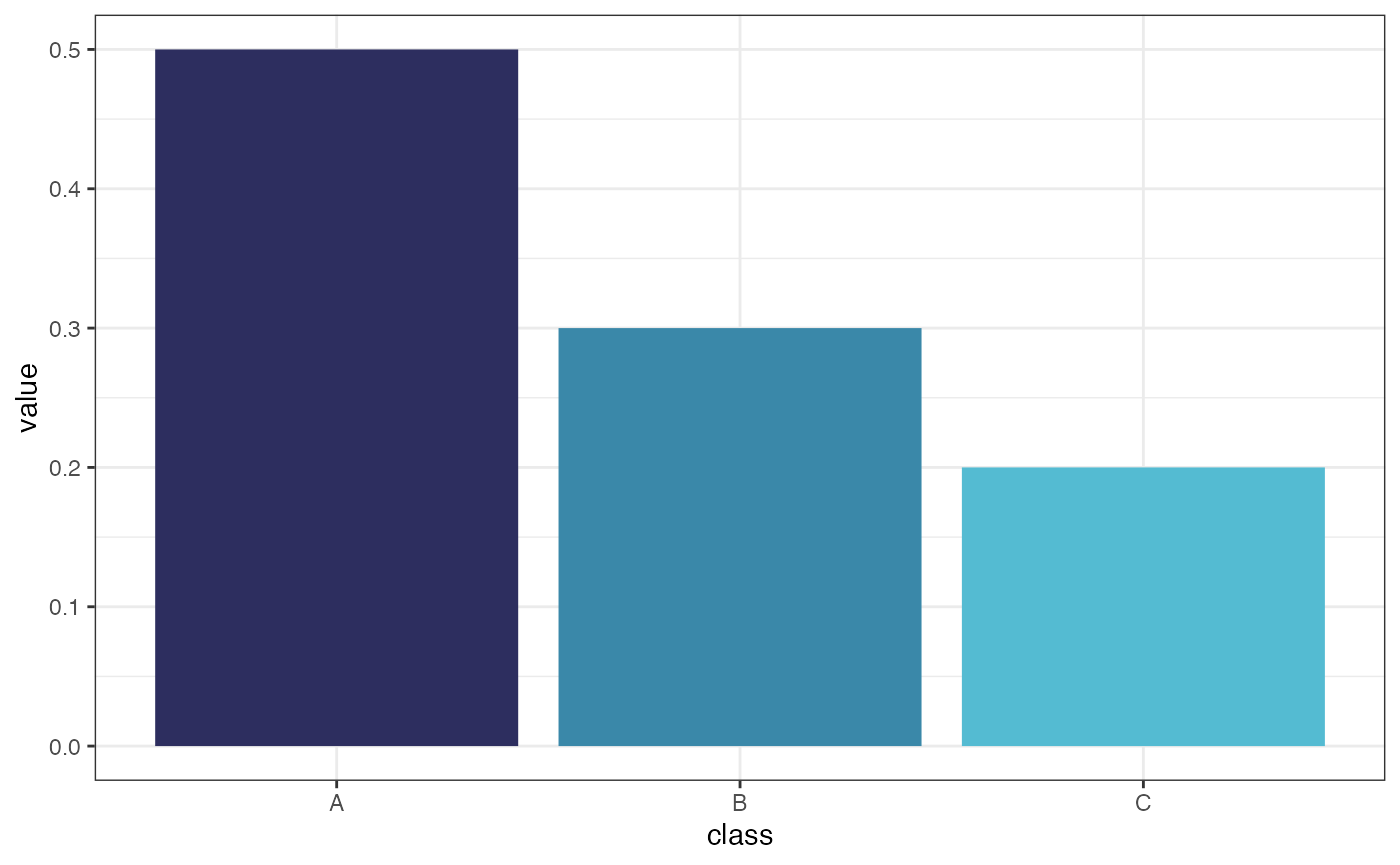
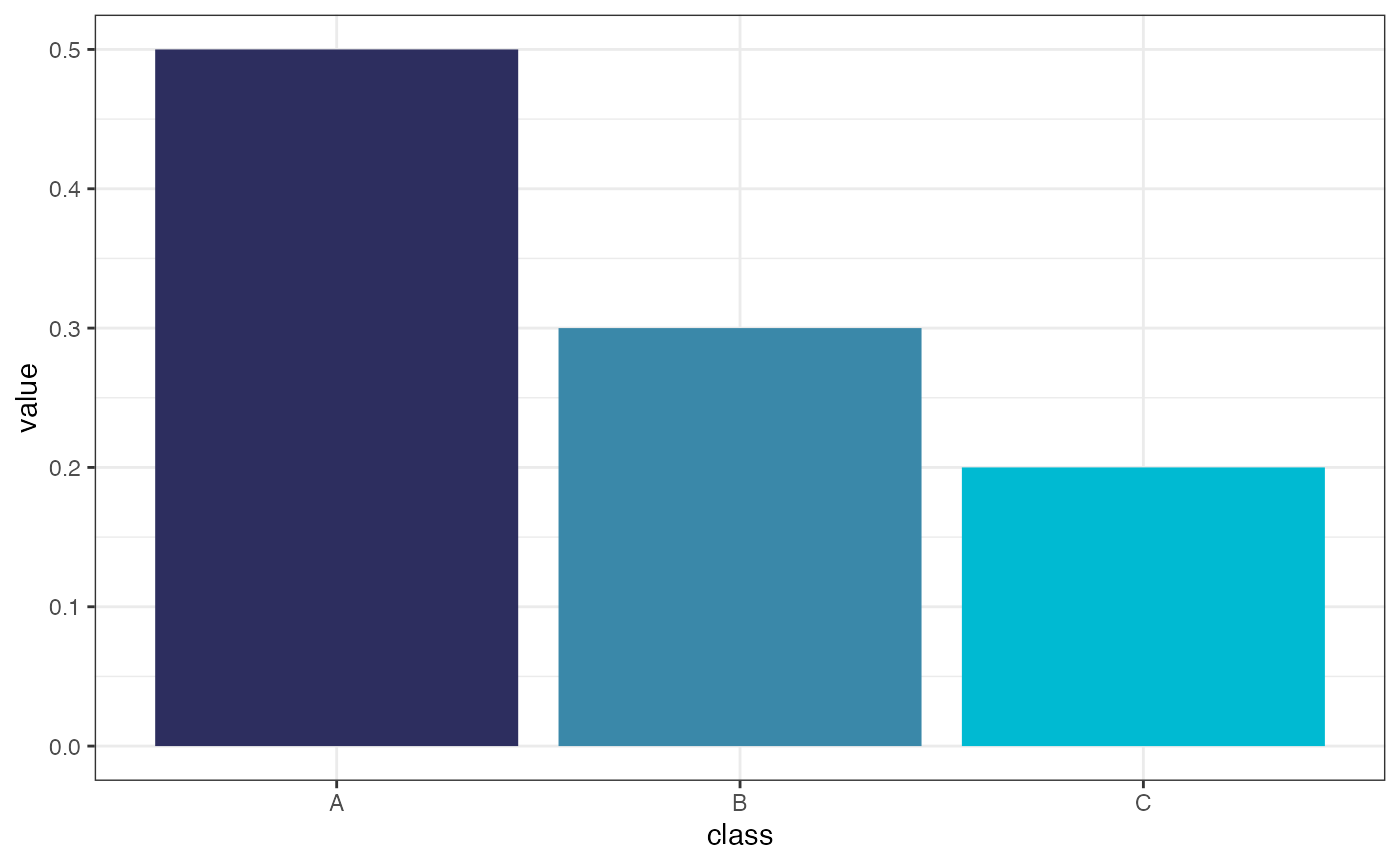
Updating pkgdown

Changed region(s): [[0.6757, 0.5306, 0.9521, 0.874]]

diff --git a/docs/index.html b/docs/index.html
@@ -89,7 +89,7 @@
 <p>These are then grouped into palettes that are also stored in functions:</p>
 <div class="sourceCode" id="cb3"><pre class="downlit sourceCode r">
 <code class="sourceCode R"><span><span class="fu"><a href="reference/hgu_palette.html">hgu_palette</a></span><span class="op">(</span><span class="op">)</span></span>
-<span><span class="co">#&gt; [1] "#2D2E5F" "#3A88A9" "#54BBD2"</span></span></code></pre></div>
+<span><span class="co">#&gt; [1] "#2D2E5F" "#3A88A9" "#00BAD2"</span></span></code></pre></div>
 <p>For users’ convenience, various functions have been written that set these colour values</p>
 <div class="sourceCode" id="cb4"><pre class="downlit sourceCode r">
 <code class="sourceCode R"><span><span class="va">plot_data</span> <span class="op">&lt;-</span> <span class="fu">tibble</span><span class="op">(</span></span>
@@ -106,16 +106,16 @@
 <p>A basic plot of this data would look like this</p>
 <div class="sourceCode" id="cb5"><pre class="downlit sourceCode r">
 <code class="sourceCode R"><span><span class="va">plot_data</span> <span class="op">%&gt;%</span></span>
-<span>  <span class="fu"><a href="https://ggplot2.tidyverse.org/reference/ggplot.html" class="external-link">ggplot</a></span><span class="op">(</span><span class="fu"><a href="https://ggplot2.tidyverse.org/reference/aes.html" class="external-link">aes</a></span><span class="op">(</span>x <span class="op">=</span> <span class="va">class</span>, y <span class="op">=</span> <span class="va">value</span>, fill <span class="op">=</span> <span class="va">class</span><span class="op">)</span><span class="op">)</span> <span class="op">+</span></span>
-<span>  <span class="fu"><a href="https://ggplot2.tidyverse.org/reference/geom_bar.html" class="external-link">geom_col</a></span><span class="op">(</span><span class="op">)</span> <span class="op">+</span></span>
-<span>  <span class="fu"><a href="https://ggplot2.tidyverse.org/reference/ggtheme.html" class="external-link">theme_classic</a></span><span class="op">(</span><span class="op">)</span></span></code></pre></div>
+<span>  <span class="fu">ggplot</span><span class="op">(</span><span class="fu">aes</span><span class="op">(</span>x <span class="op">=</span> <span class="va">class</span>, y <span class="op">=</span> <span class="va">value</span>, fill <span class="op">=</span> <span class="va">class</span><span class="op">)</span><span class="op">)</span> <span class="op">+</span></span>
+<span>  <span class="fu">geom_col</span><span class="op">(</span><span class="op">)</span> <span class="op">+</span></span>
+<span>  <span class="fu">theme_classic</span><span class="op">(</span><span class="op">)</span></span></code></pre></div>
 <p><img src="reference/figures/README-unnamed-chunk-5-1.png" width="100%"></p>
 <p>A layer can be added to change the fill of the boxes to match that of the MRC HGU powerpoint theme</p>
 <div class="sourceCode" id="cb6"><pre class="downlit sourceCode r">
 <code class="sourceCode R"><span><span class="va">plot_data</span> <span class="op">%&gt;%</span></span>
-<span>  <span class="fu"><a href="https://ggplot2.tidyverse.org/reference/ggplot.html" class="external-link">ggplot</a></span><span class="op">(</span><span class="fu"><a href="https://ggplot2.tidyverse.org/reference/aes.html" class="external-link">aes</a></span><span class="op">(</span>x <span class="op">=</span> <span class="va">class</span>, y <span class="op">=</span> <span class="va">value</span>, fill <span class="op">=</span> <span class="va">class</span><span class="op">)</span><span class="op">)</span> <span class="op">+</span></span>
-<span>  <span class="fu"><a href="https://ggplot2.tidyverse.org/reference/geom_bar.html" class="external-link">geom_col</a></span><span class="op">(</span><span class="op">)</span> <span class="op">+</span></span>
-<span>  <span class="fu"><a href="https://ggplot2.tidyverse.org/reference/ggtheme.html" class="external-link">theme_classic</a></span><span class="op">(</span><span class="op">)</span> <span class="op">+</span></span>
+<span>  <span class="fu">ggplot</span><span class="op">(</span><span class="fu">aes</span><span class="op">(</span>x <span class="op">=</span> <span class="va">class</span>, y <span class="op">=</span> <span class="va">value</span>, fill <span class="op">=</span> <span class="va">class</span><span class="op">)</span><span class="op">)</span> <span class="op">+</span></span>
+<span>  <span class="fu">geom_col</span><span class="op">(</span><span class="op">)</span> <span class="op">+</span></span>
+<span>  <span class="fu">theme_classic</span><span class="op">(</span><span class="op">)</span> <span class="op">+</span></span>
 <span>  <span class="fu"><a href="reference/scale_fill_hgu3.html">scale_fill_hgu3</a></span><span class="op">(</span><span class="op">)</span></span></code></pre></div>
 <p><img src="reference/figures/README-unnamed-chunk-6-1.png" width="100%"></p>
 </div>
@@ -199,6 +199,7 @@
 <h2 data-toc-skip>Dev status</h2>
 <ul class="list-unstyled">
 <li><a href="https://github.com/hwarden162/HGUTheme/actions/workflows/pages/pages-build-deployment" class="external-link"><img src="https://github.com/hwarden162/HGUTheme/actions/workflows/pages/pages-build-deployment/badge.svg" alt="pages-build-deployment"></a></li>
+<li><a href="https://app.codecov.io/gh/hwarden162/HGUTheme?branch=main" class="external-link"><img src="https://codecov.io/gh/hwarden162/HGUTheme/branch/main/graph/badge.svg" alt="Codecov test coverage"></a></li>
 </ul>
 </div>
 

diff --git a/docs/articles/HGUTheme.html b/docs/articles/HGUTheme.html
@@ -154,7 +154,7 @@ for text box text and shapes). Here are these three colours in hex:</p>
 <span><span class="co">#&gt; [1] "#3A88A9"</span></span>
 <span><span class="co"># MRC HGU Light Blue</span></span>
 <span><span class="fu"><a href="../reference/hgu_light.html">hgu_light</a></span><span class="op">(</span><span class="op">)</span></span>
-<span><span class="co">#&gt; [1] "#54BBD2"</span></span></code></pre></div>
+<span><span class="co">#&gt; [1] "#00BAD2"</span></span></code></pre></div>
 <p>These can be useful for quickly colouring <code>ggplot2</code> plots,
 lets make a quick example. A fairly common plot you might make as a
 scientist is a scatter plot with a trend and then putting a linear
@@ -166,18 +166,18 @@ regression line on top. First we can make some fake data</p>
 <span><span class="op">)</span></span>
 <span><span class="va">plot_data</span></span>
 <span><span class="co">#&gt; <span style="color: #949494;"># A tibble: 100 × 2</span></span></span>
-<span><span class="co">#&gt;         x       y</span></span>
-<span><span class="co">#&gt;     <span style="color: #949494; font-style: italic;">&lt;dbl&gt;</span>   <span style="color: #949494; font-style: italic;">&lt;dbl&gt;</span></span></span>
-<span><span class="co">#&gt; <span style="color: #BCBCBC;"> 1</span> 0.023<span style="text-decoration: underline;">7</span>  0.031<span style="text-decoration: underline;">8</span></span></span>
-<span><span class="co">#&gt; <span style="color: #BCBCBC;"> 2</span> 0.294   0.325 </span></span>
-<span><span class="co">#&gt; <span style="color: #BCBCBC;"> 3</span> 0.744   0.538 </span></span>
-<span><span class="co">#&gt; <span style="color: #BCBCBC;"> 4</span> 0.945   1.06  </span></span>
-<span><span class="co">#&gt; <span style="color: #BCBCBC;"> 5</span> 0.078<span style="text-decoration: underline;">1</span> -<span style="color: #BB0000;">0.089</span><span style="color: #BB0000; text-decoration: underline;">5</span></span></span>
-<span><span class="co">#&gt; <span style="color: #BCBCBC;"> 6</span> 0.825   0.784 </span></span>
-<span><span class="co">#&gt; <span style="color: #BCBCBC;"> 7</span> 0.896   0.753 </span></span>
-<span><span class="co">#&gt; <span style="color: #BCBCBC;"> 8</span> 0.137   0.585 </span></span>
-<span><span class="co">#&gt; <span style="color: #BCBCBC;"> 9</span> 0.014<span style="text-decoration: underline;">7</span>  0.017<span style="text-decoration: underline;">7</span></span></span>
-<span><span class="co">#&gt; <span style="color: #BCBCBC;">10</span> 0.928   1.15  </span></span>
+<span><span class="co">#&gt;        x      y</span></span>
+<span><span class="co">#&gt;    <span style="color: #949494; font-style: italic;">&lt;dbl&gt;</span>  <span style="color: #949494; font-style: italic;">&lt;dbl&gt;</span></span></span>
+<span><span class="co">#&gt; <span style="color: #BCBCBC;"> 1</span> 0.714 0.585 </span></span>
+<span><span class="co">#&gt; <span style="color: #BCBCBC;"> 2</span> 0.453 0.430 </span></span>
+<span><span class="co">#&gt; <span style="color: #BCBCBC;"> 3</span> 0.410 0.512 </span></span>
+<span><span class="co">#&gt; <span style="color: #BCBCBC;"> 4</span> 0.131 0.098<span style="text-decoration: underline;">4</span></span></span>
+<span><span class="co">#&gt; <span style="color: #BCBCBC;"> 5</span> 0.590 0.433 </span></span>
+<span><span class="co">#&gt; <span style="color: #BCBCBC;"> 6</span> 0.469 0.717 </span></span>
+<span><span class="co">#&gt; <span style="color: #BCBCBC;"> 7</span> 0.975 0.801 </span></span>
+<span><span class="co">#&gt; <span style="color: #BCBCBC;"> 8</span> 0.468 0.620 </span></span>
+<span><span class="co">#&gt; <span style="color: #BCBCBC;"> 9</span> 0.893 0.779 </span></span>
+<span><span class="co">#&gt; <span style="color: #BCBCBC;">10</span> 0.314 0.447 </span></span>
 <span><span class="co">#&gt; <span style="color: #949494;"># … with 90 more rows</span></span></span></code></pre></div>
 <p>Then we can make a simple plot that you might make for a
 presentation:</p>

diff --git a/docs/reference/hgu_palette.html b/docs/reference/hgu_palette.html
@@ -68,13 +68,11 @@
     <h2 id="ref-examples">Examples<a class="anchor" aria-label="anchor" href="#ref-examples"></a></h2>
     <div class="sourceCode"><pre class="sourceCode r"><code><span class="r-in"><span><span class="va">colour_palette</span> <span class="op">&lt;-</span> <span class="va">hgu_palette</span></span></span>
 <span class="r-in"><span><span class="va">colour_palette</span></span></span>
-<span class="r-out co"><span class="r-pr">#&gt;</span> function() {</span>
-<span class="r-out co"><span class="r-pr">#&gt;</span>   c(</span>
-<span class="r-out co"><span class="r-pr">#&gt;</span>     hgu_dark(),</span>
-<span class="r-out co"><span class="r-pr">#&gt;</span>     hgu_mid(),</span>
-<span class="r-out co"><span class="r-pr">#&gt;</span>     hgu_light()</span>
-<span class="r-out co"><span class="r-pr">#&gt;</span>   )</span>
+<span class="r-out co"><span class="r-pr">#&gt;</span> function () </span>
+<span class="r-out co"><span class="r-pr">#&gt;</span> {</span>
+<span class="r-out co"><span class="r-pr">#&gt;</span>     c(hgu_dark(), hgu_mid(), hgu_light())</span>
 <span class="r-out co"><span class="r-pr">#&gt;</span> }</span>
+<span class="r-out co"><span class="r-pr">#&gt;</span> &lt;bytecode: 0x7fbf3bfe2828&gt;</span>
 <span class="r-out co"><span class="r-pr">#&gt;</span> &lt;environment: namespace:HGUTheme&gt;</span>
 </code></pre></div>
     </div>
